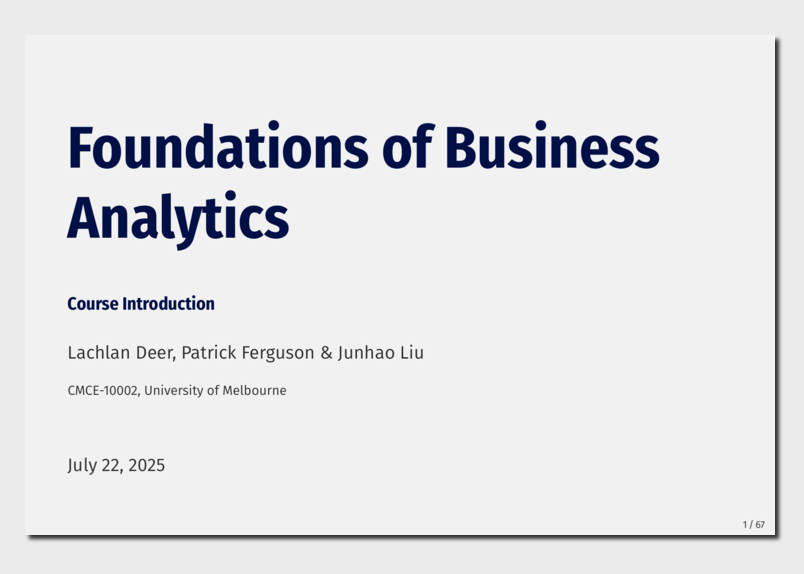
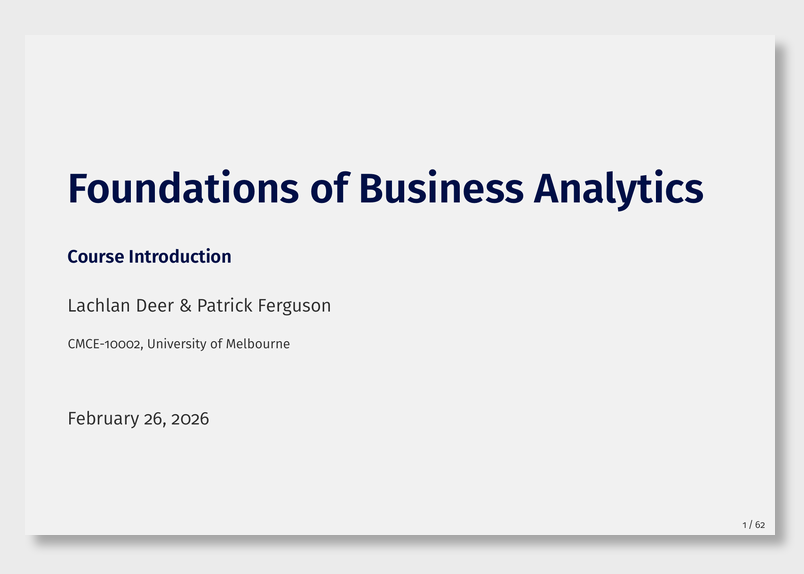
readme update

diff --git a/README.md b/README.md
@@ -5,7 +5,7 @@
 # Foundations of Business Analytics: Course Introduction
 
 [![lifecycle](https://img.shields.io/badge/lifecycle-development-blue.svg)]()
-[![lifecycle](https://img.shields.io/badge/version-2025-red.svg)]()
+[![lifecycle](https://img.shields.io/badge/version-2026-red.svg)]()
 [![License: CC BY-SA
 4.0](https://img.shields.io/badge/License-CC%20BY--SA%204.0-lightgrey.svg)](https://creativecommons.org/licenses/by-sa/4.0/)
 
@@ -16,8 +16,8 @@
 - Course: [Foundations of Business
   Analytics](https://unimelb-cmce-10002.github.io/fba-book/)
 - Institute: Faculty of Business & Economics, University of Melbourne
-- Current Version: [2025
-  edition](https://handbook.unimelb.edu.au/2025/subjects/cmce10002)
+- Current Version: [2026
+  edition](https://handbook.unimelb.edu.au/2026/subjects/cmce10002)
 
 [![](out/presentation.png)](out/presentation.pdf)
 
@@ -27,15 +27,15 @@ Slides for the Lecture 1 of Foundations of Business Analytics
 
 ## Suggested Citation (for the Module)
 
-Deer, L., Ferguson, P.J and Liu, J. (2025) Foundations of Business
+Deer, L., Ferguson, P.J and Liu, J. (2026) Foundations of Business
 Analytics: Course Introduction.
 https://github.com/unimelb-cmce-10002/fba-lecture-course-intro
 
 ``` out
-@misc{fba2025_l01,
+@misc{fba2026_l01,
       title={"Digital and Social Media Strategies: Course Introduction"},
       author={Lachlan Deer, Patrick Ferguson and Junhao Liu},
-      year={2025,
+      year={2026,
       url = "https://github.com/unimelb-cmce-10002/fba-lecture-course-intro"
 }
 ```
